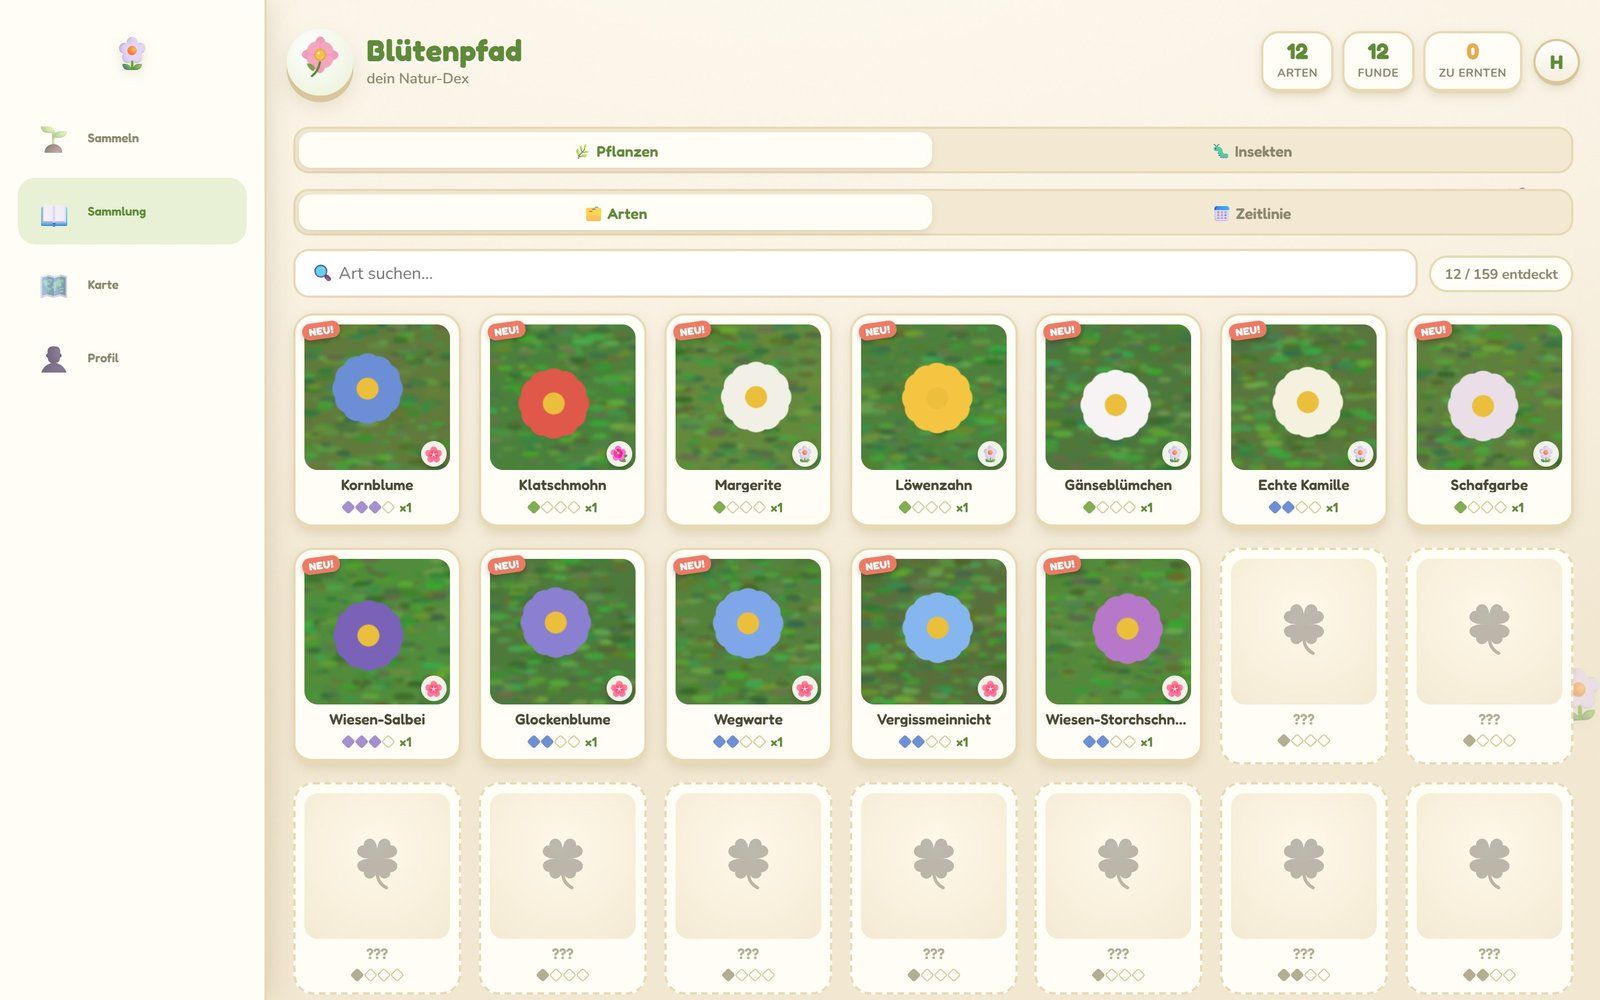
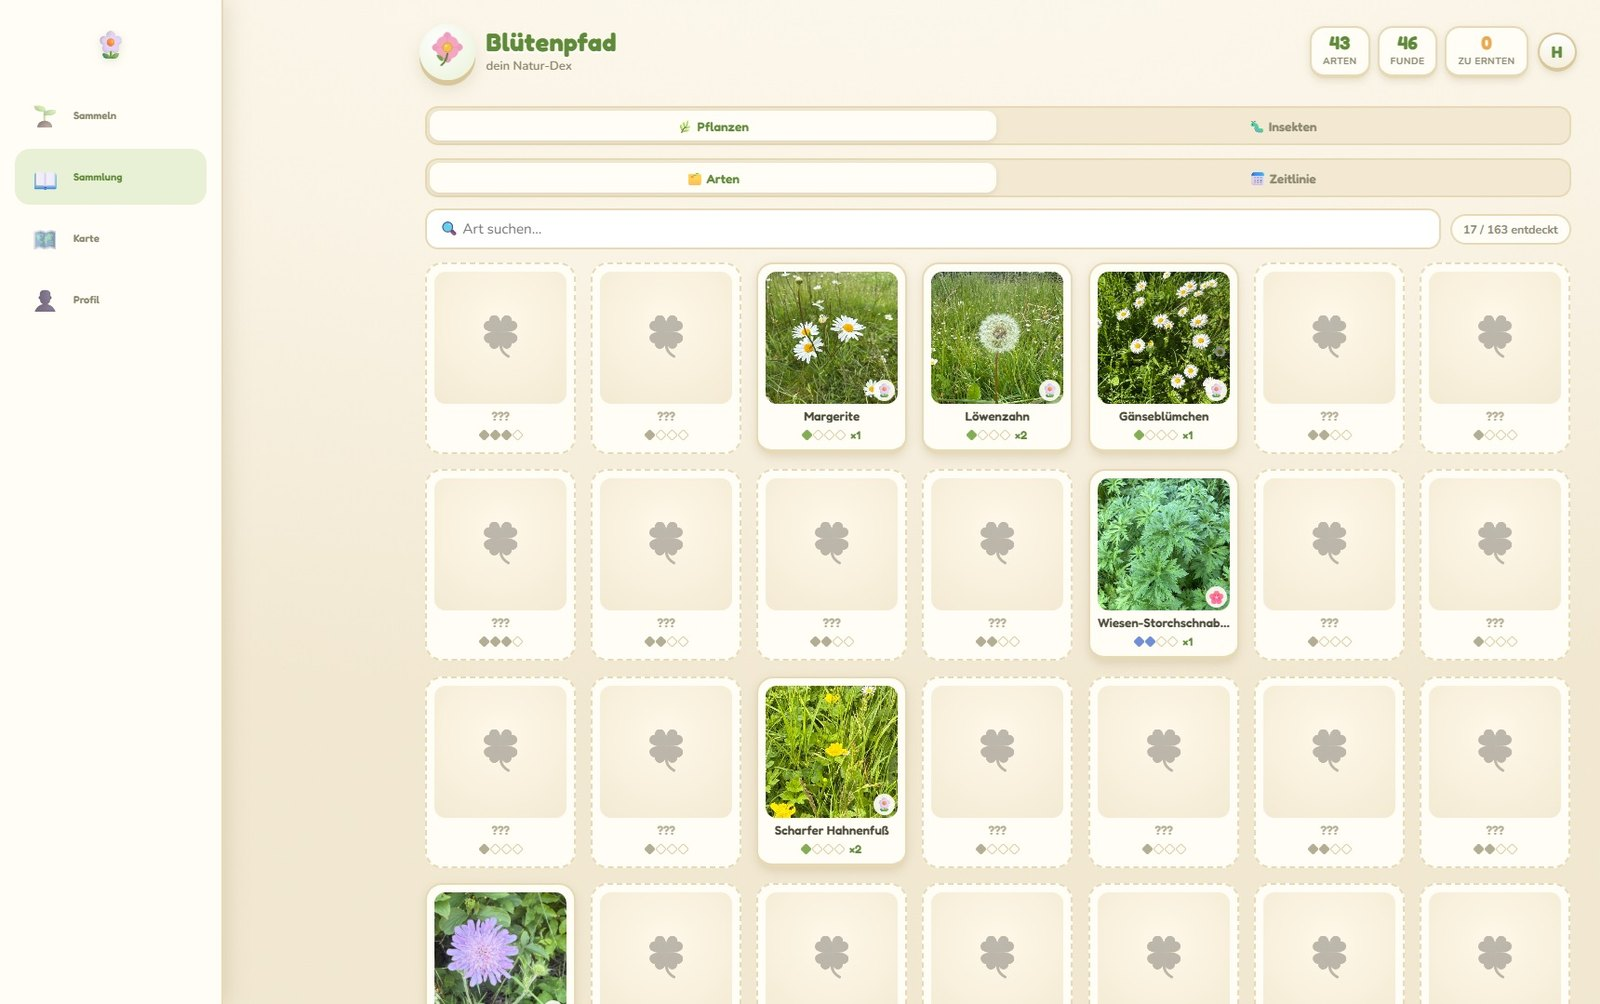
Show my real Blütenpfad collection

diff --git a/README.md b/README.md
@@ -35,7 +35,7 @@ projects with Claude Code and Codex.
     <td width="50%" valign="top">
       <h3><a href="https://github.com/hildlabs/bluetenpfad">Blütenpfad</a></h3>
       <a href="https://github.com/hildlabs/bluetenpfad">
-        <img src="assets/bluetenpfad-collection.jpg" alt="The Blütenpfad collection with discovered wildflowers">
+        <img src="assets/bluetenpfad-collection.jpg" alt="My Blütenpfad collection with photographed wildflowers">
       </a>
       A nature collecting app for Central Europe: photograph a plant, read its profile, fill your
       collection. Auth, EXIF photo upload, plant recognition, multiplayer and GDPR endpoints in one
